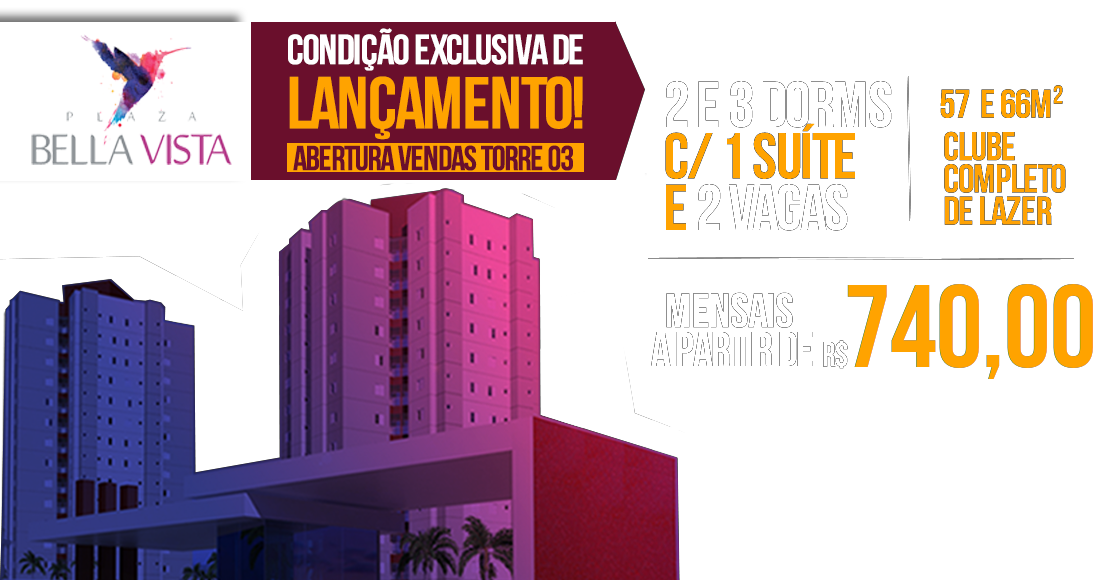
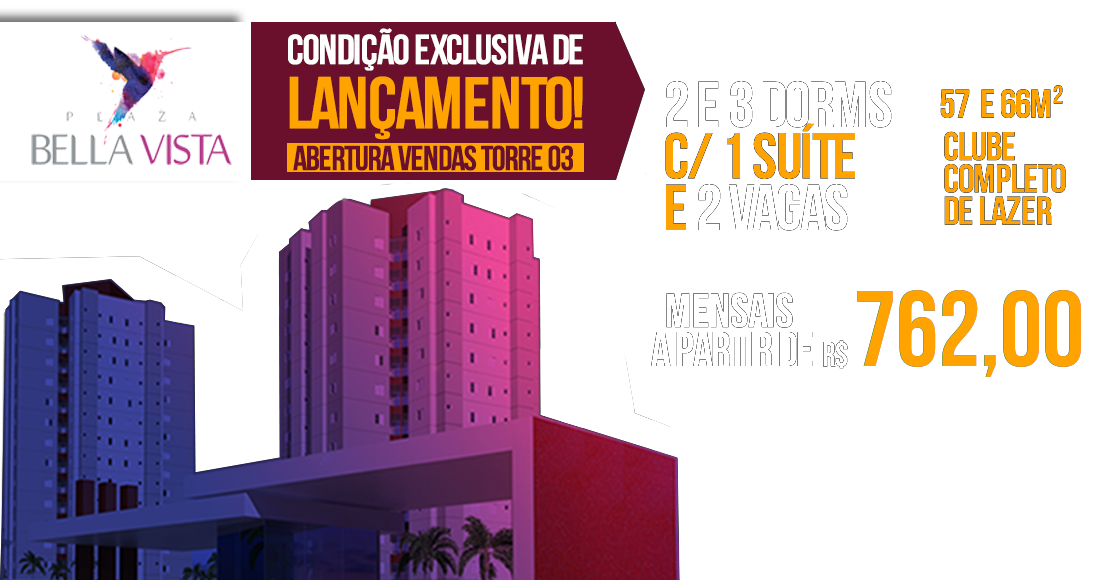
uplodate late january

Changed region(s): [[0.7418, 0.4345, 1.0, 0.6517], [0.6182, 0.4345, 0.7109, 0.4655]]

diff --git a/index.html b/index.html
@@ -159,7 +159,7 @@
 
     <div class="w3-card-4 w3-center w3-padding w3-margin w3-red">
       <h3>Apartamentos a partir de R$255.000,00</h3>
-      <h4>Parcelas a partir de <span class="w3-text-amber">R$740,00</span></h4>
+      <h4>Parcelas a partir de <span class="w3-text-amber">R$762,00</span></h4>
     </div>
 
     <div class="w3-white w3-center w3-margin-top w3-margin-bottom">
